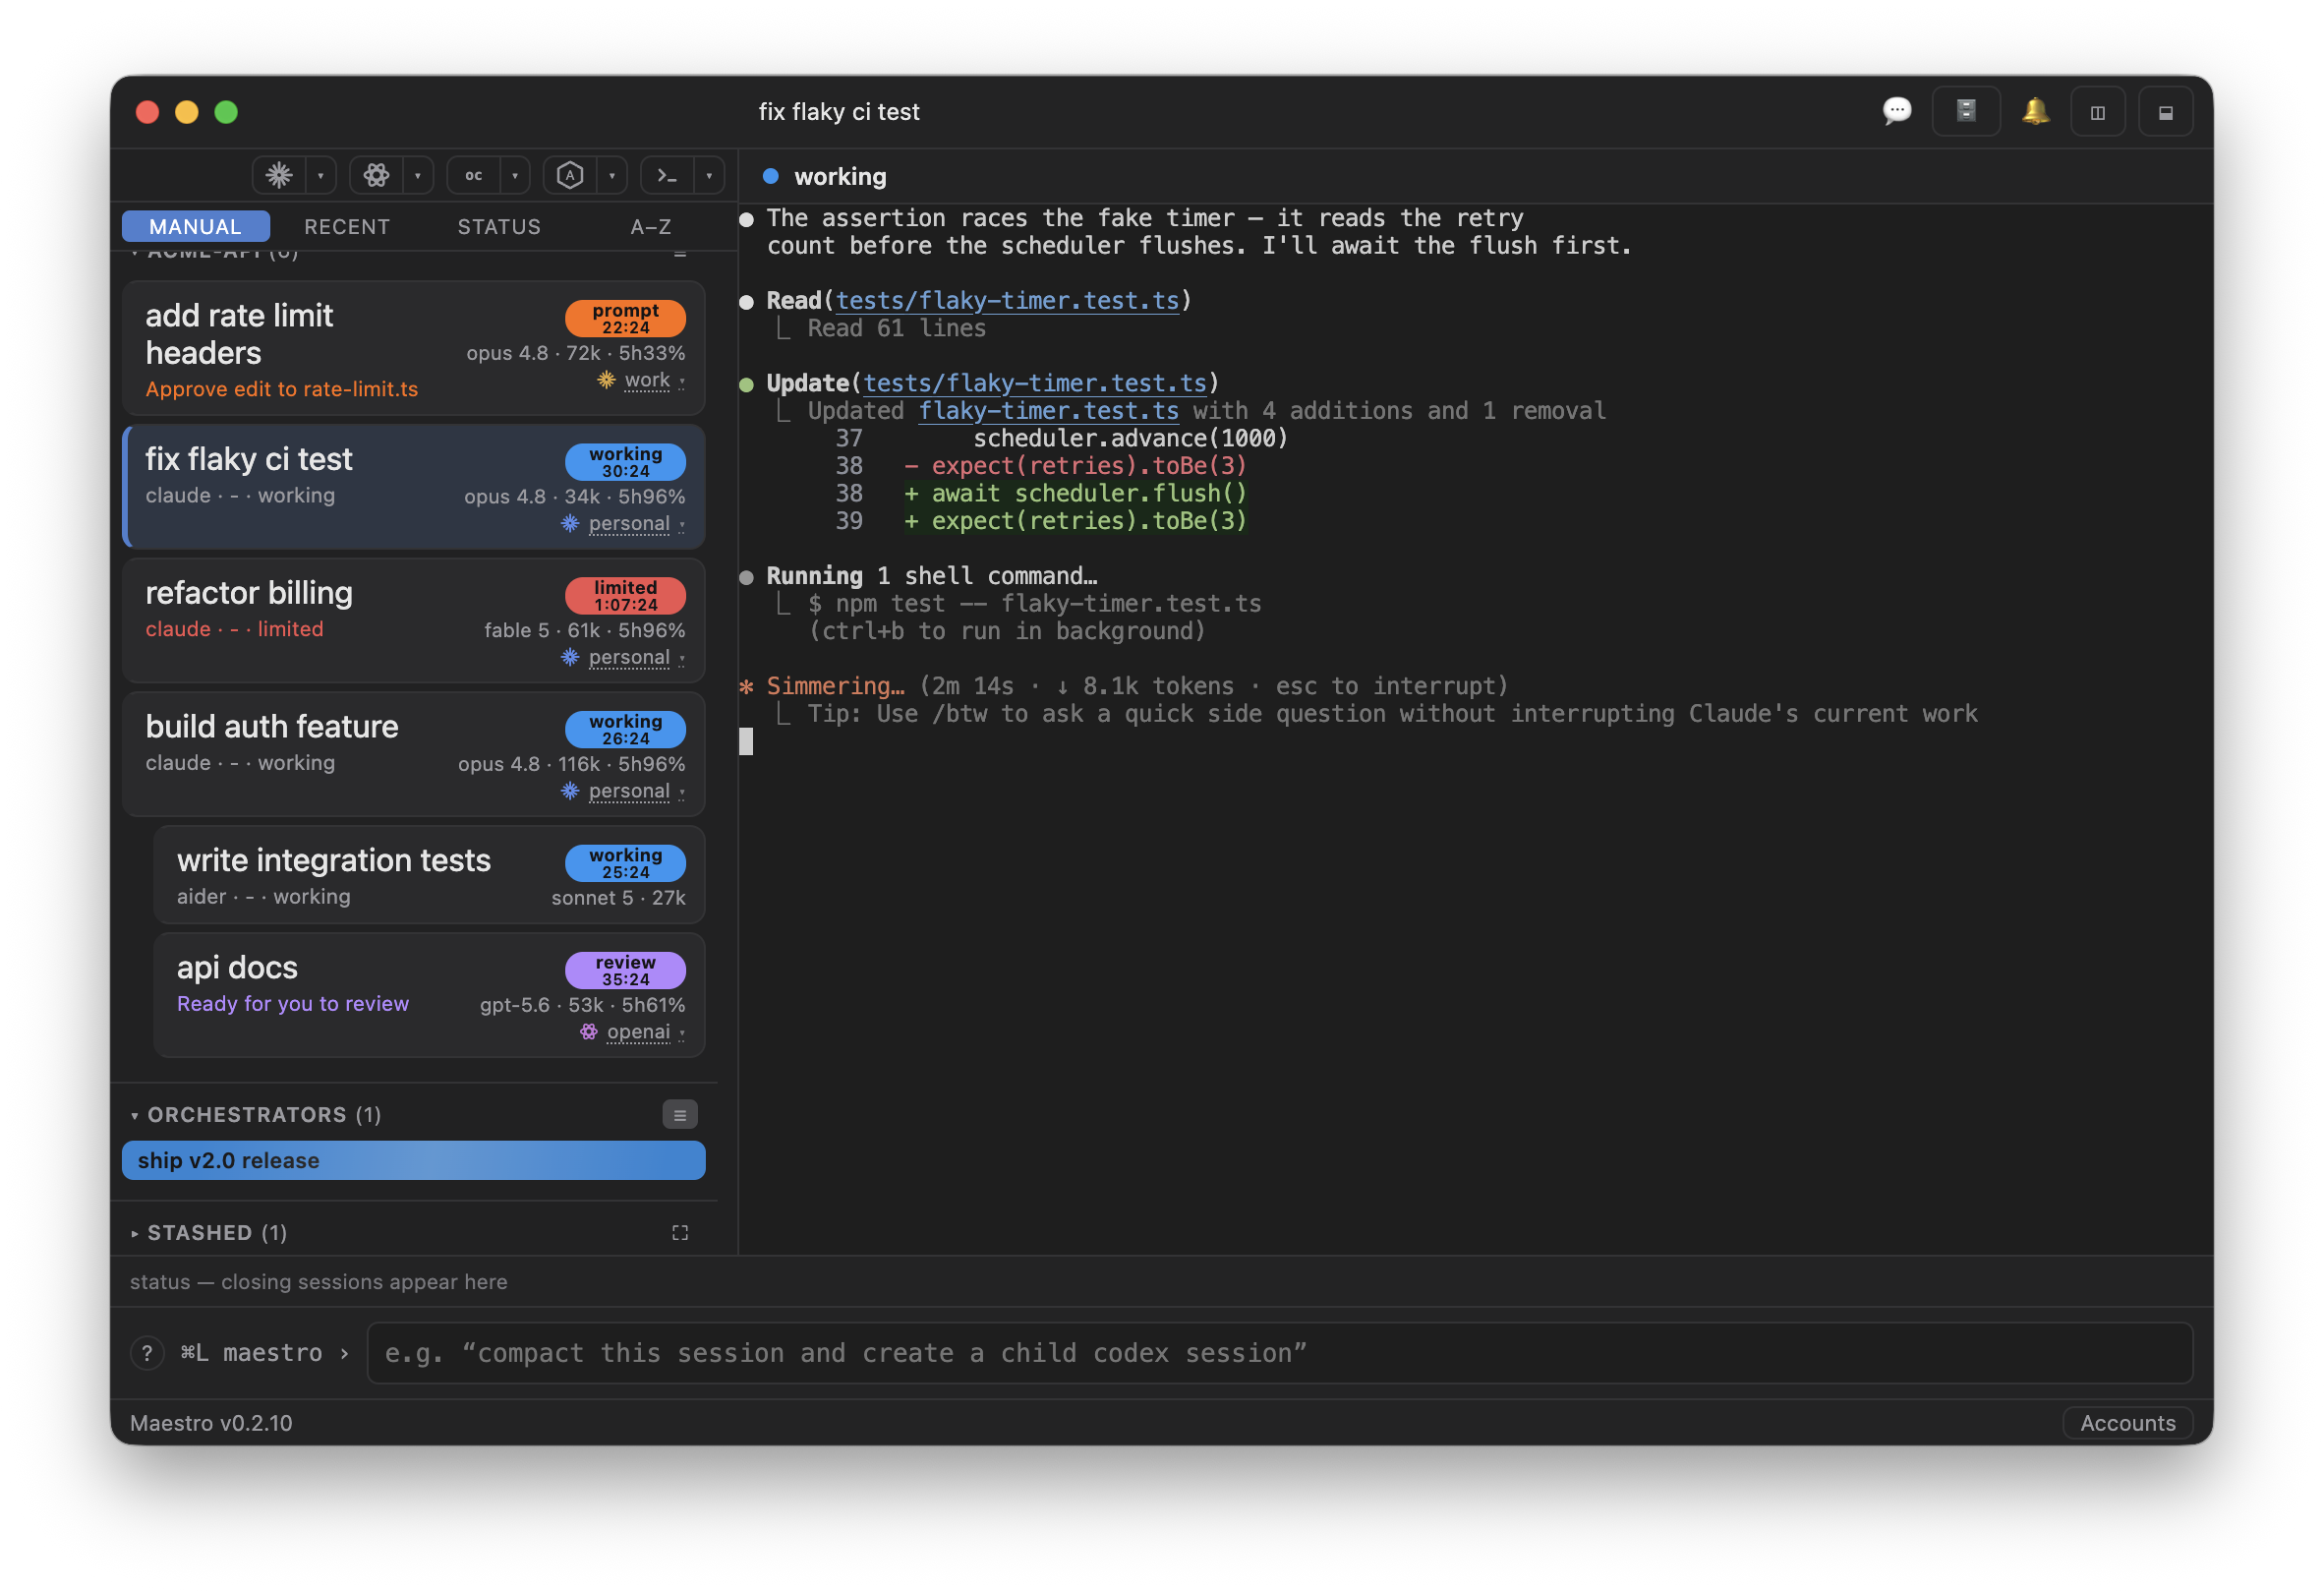
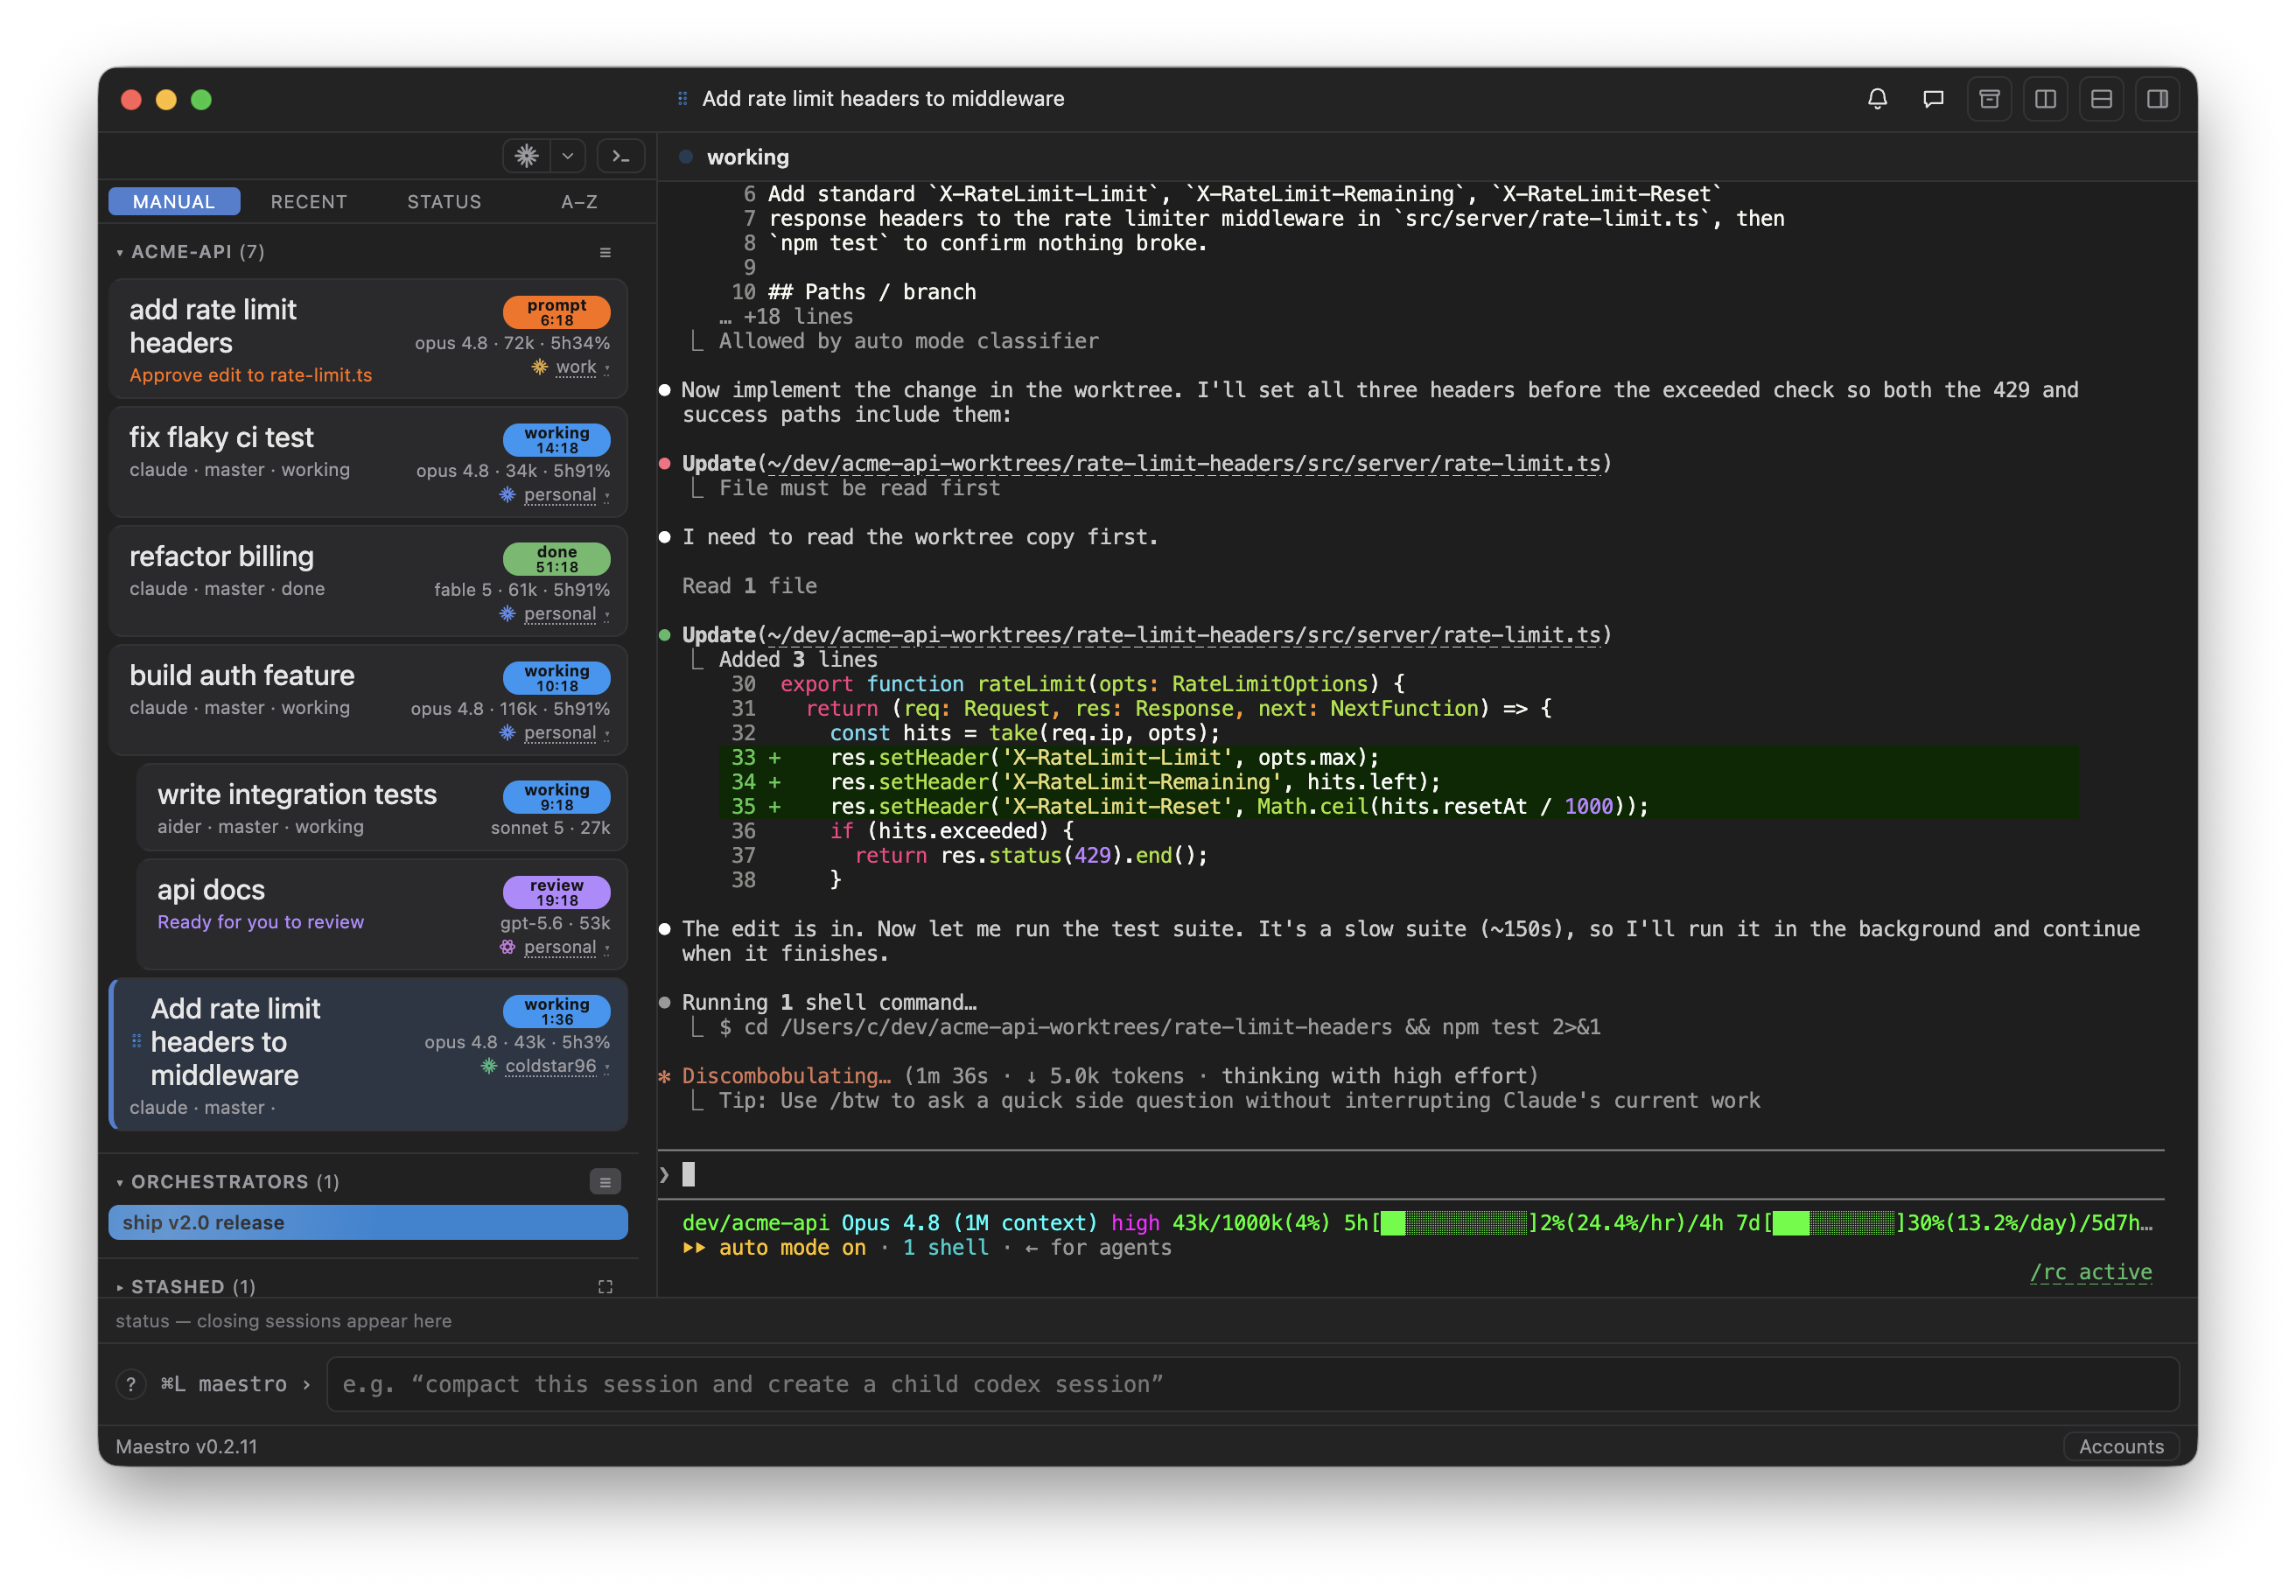
docs(site): use a real Claude session screenshot as the hero
Swap the hero image for an authentic capture — a live Claude session
applying a rate-limit-headers edit and running its test suite, alongside
the fleet sidebar (latest v0.2.11 UI).

Claude-Session: https://claude.ai/code/session_019c6DPW4vHybmUrzgo6fcEF

diff --git a/index.html b/index.html
@@ -35,7 +35,7 @@
       <p class="btn-note">One command installs the app + CLI — signed, notarized, no Gatekeeper dialog. macOS · Apple Silicon · free</p>
 
       <div class="mockup">
-        <img class="hero-shot" src="assets/hero.png?v=20260713" width="2364" height="1618" alt="Maestro conducting a fleet of AI coding agents — a sidebar of live status cards for Claude, Codex, and aider sessions grouped by project, with a focused agent's terminal showing a live edit." loading="eager">
+        <img class="hero-shot" src="assets/hero.png?v=20260713b" width="2624" height="1824" alt="Maestro conducting a fleet of AI coding agents — a sidebar of live status cards for Claude, Codex, and aider sessions grouped by project, alongside a focused Claude session applying a live code edit and running its test suite." loading="eager">
       </div>
     </div>
   </section>